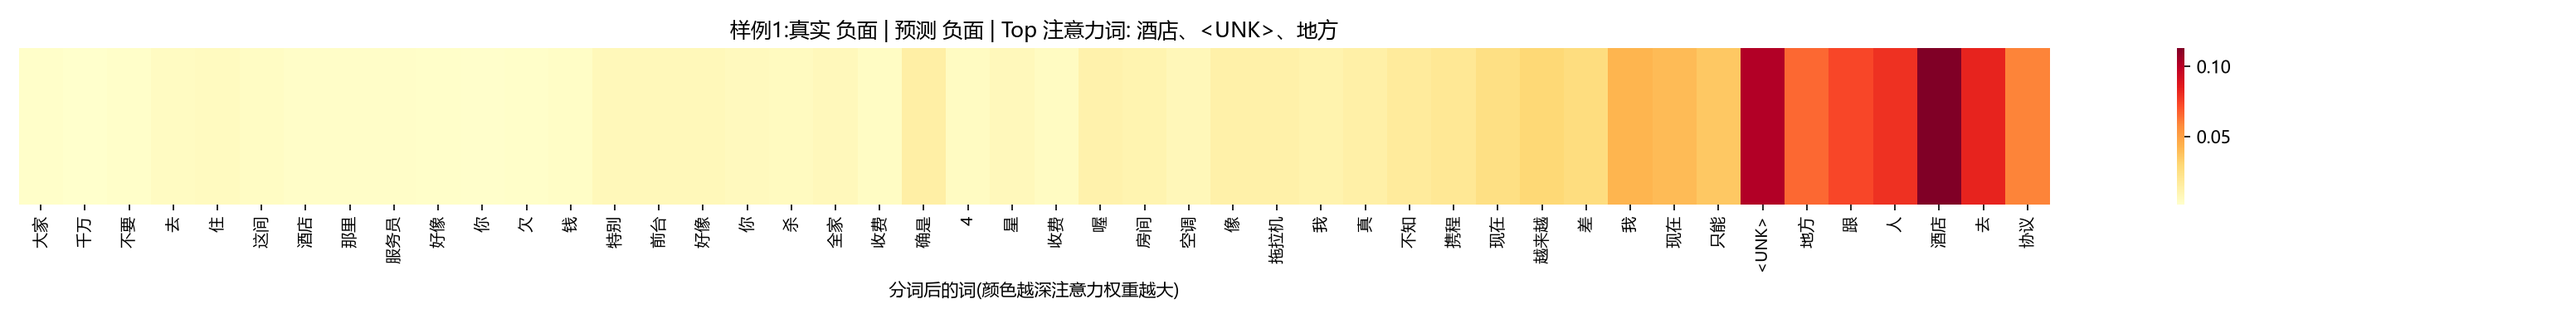
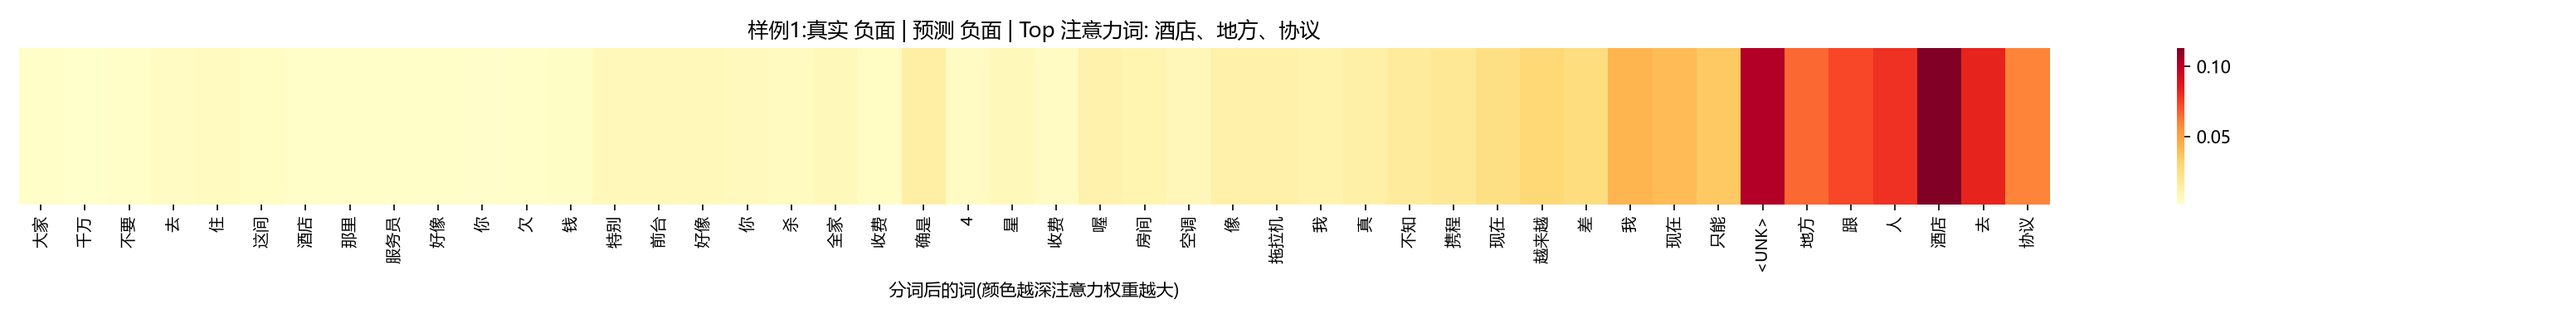
复审打磨:README否定句措辞收敛与缓和否定边界披露、attention_viz过滤UNK、preprocess步骤编号修正

Changed region(s): [[0.2812, 0.0615, 0.5311, 0.1231]]

diff --git a/src/preprocess.py b/src/preprocess.py
@@ -14,10 +14,10 @@
   5. 文本去重:同文本标签一致的只保留 1 条,标签冲突的整组丢弃(防测试集
      文本泄漏进训练集导致指标虚高),去重后合并数据按 8:1:1 重新划分
      训练/验证/测试(固定种子 42,可复现);
-  5. 词汇表【仅由训练集构建】—— 避免验证/测试集词泄漏到训练特征中(数据泄漏),
+  6. 词汇表【仅由训练集构建】—— 避免验证/测试集词泄漏到训练特征中(数据泄漏),
      上限 50000 词,特殊符号 <PAD>=0、<UNK>=1;
-  6. 文本转整数序列,padding / 截断至 maxlen=128;
-  7. 保存 data/processed/ 下 train/val/test 三个 .pkl(含 token id 序列、标签、原文)
+  7. 文本转整数序列,padding / 截断至 maxlen=128;
+  8. 保存 data/processed/ 下 train/val/test 三个 .pkl(含 token id 序列、标签、原文)
      与 vocab.json。
 
 推理(src/predict.py、app/)通过 import 本模块的 clean_text / tokenize /

diff --git a/src/attention_viz.py b/src/attention_viz.py
@@ -101,8 +101,11 @@ def run_attention_viz(run_name: str = None):
             )
             ax.set_xticklabels(tokens, rotation=90, fontsize=9)
             polarity = "正面" if label == 1 else "负面"
-            # Top 注意力词:过滤纯单字/虚词,挑权重最高的多字词,更有语义可读性
-            multi = [(w, wt) for w, wt in zip(tokens, weights) if len(w) >= 2]
+            # Top 注意力词:过滤纯单字与 <UNK> 占位词,挑权重最高的多字实词,更有语义可读性
+            multi = [
+                (w, wt) for w, wt in zip(tokens, weights)
+                if len(w) >= 2 and w not in ("<PAD>", "<UNK>")
+            ]
             top_words = [w for w, _ in sorted(multi, key=lambda x: -x[1])[:3]] or tokens[:3]
             ax.set_title(
                 f"样例{i}:真实 {polarity} | 预测 {'正面' if pred == 1 else '负面'} | "

diff --git a/README.md b/README.md
@@ -9,7 +9,8 @@
 - **最佳模型:test_acc 0.8896 / test_F1 0.9022**(`outputs/best_model.pt`)
 - 数据质量保障:语料按文本去重(消除训练/测试文本重叠导致的指标虚高);
   停用词表剔除否定词与程度副词 + 否定词合并 + OOV 组合式初始化,
-  否定句("我不满意这家酒店的服务")可正确判负
+  对"不满意/不好/不干净"等直接否定结构可稳定判负
+  ("不是很/不太"等缓和型否定的置信度接近 0.5,属已知边界情况,见已知限制)
 
 ## 1. 环境要求
 
@@ -137,10 +138,12 @@ Web 应用默认加载该模型。
 1. **去重的影响**:语料去重(10800→9060)消除了 21.9% 测试文本在训练集出现的问题,
    各 run test 指标整体下降约 1~2pt——这是更诚实的泛化估计;
 2. **否定句处理链路**(停用词剔除否定/程度词 → 否定词合并 → OOV 等量级+组合式初始化
-   → 词向量微调 lr=5e-4):"我不满意这家酒店的服务"等否定句可稳定判负
-   (最佳模型 4 条否定测试句全部正确,其中该句 62% 负面);仅靠停用词修正时,
-   预训练词向量组对否定组合仍学不动(稀有 OOV 词向量幅值过小、更新次数不足),
-   组合式初始化与更高微调学习率是关键;
+   → 词向量微调 lr=5e-4):对"不满意/不好/不干净"等**直接否定结构**可稳定判负
+   (最佳模型 4 条直接否定测试句全部正确,其中"我不满意这家酒店的服务"判负 62%);
+   但对"不是很干净/不太舒服"等**缓和型否定**(否定词+程度词组合,经分词后
+   未被合并规则覆盖),置信度仍接近 0.5,属已知边界情况(见已知限制第 4 条)。
+   仅靠停用词修正时,预训练词向量组对否定组合仍学不动(稀有 OOV 词向量幅值
+   过小、更新次数不足),组合式初始化与更高微调学习率是关键;
 3. hidden 容量:h=64 欠拟合(F1 0.8333),h=256 过拟合较重,h=128 综合最优;
 4. 预训练词向量微调提升显著(random 最好 0.8607 → 微调 0.9022,+4.2pt),
    冻结版 0.8835 也优于全部 random 基线;微调学习率 5e-4 优于 1e-4;
@@ -177,7 +180,13 @@ Web 应用默认加载该模型。
      (全部 不X 词共享 vec(不) 分量,给分类器一致的否定方向);
    - 已知残余限制:预训练**冻结**组(requires_grad=False)无法适配 OOV 合并词,
      对个别否定短句仍会误判(如"我不满意这家酒店的服务"该组判正 61%);
-     系统默认加载的最佳模型(微调 lr=5e-4)无此问题。
+     系统默认加载的最佳模型(微调 lr=5e-4)无此问题;
+   - 已知边界情况(缓和型否定):否定词与程度词组合(不+很/太)未被否定合并
+     规则覆盖,模型对这类句子的置信度接近随机。监督复审实测最佳模型:
+     "房间不是很干净,感觉不太舒服"→正面 0.596、"酒店设施不满意,性价比不高"
+     →正面 0.595,两条均误判但置信度很低(接近 0.5,非高置信错误);
+     若要覆盖,可将合并规则扩展为 否定词+程度词+中心词 三元合并(未实施,
+     属后续改进项)。
 5. **维度说明**:预训练对比组 embedding 为 200 维(腾讯词向量固有维度),random 基线为 300 维;
    两组 hidden/dropout/lr/batch 完全一致。
 6. **推理一致性**:推理与训练共用 `src/preprocess.py` 同一份清洗/分词/停用词/否定合并/
